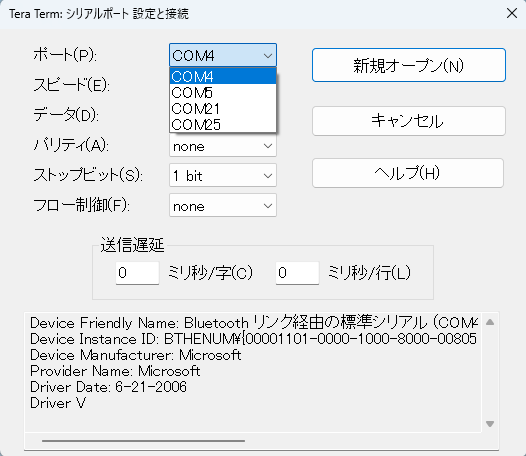
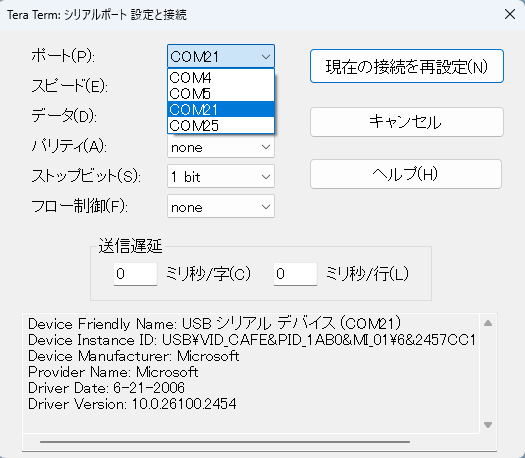
updated article

diff --git a/articles/2025-07-23-labo-logicanalyzer.md b/articles/2025-07-23-labo-logicanalyzer.md
@@ -1,5 +1,5 @@
 ---
-title: "Pico ボードは実験室! pico-jxgLABO でロジックアナライザを動かす"
+title: "Pico ボードは実験室! pico-jxgLABO を導入してロジックアナライザ機能を試してみる"
 emoji: "🐙"
 type: "tech" # tech: 技術記事 / idea: アイデア
 topics: ["組み込み", "raspberrypi", "pico", "raspberrypipico", "ロジックアナライザ"]
@@ -44,15 +44,13 @@ pico-jxgLABO を使うのに必要な機材は以下の通りです。
 
 ### 環境設定と動作確認
 
-Pico ボードを接続すると、ホスト PC にはマスストレージデバイスとして認識されます。ドライブ名は UF2 をコピーしたときと同じになると思います。
-
-シリアル通信をするため Tera Term を起動します。`[設定 (S)]-[シリアルポート (E)...]` を選択し、接続する Pico ボードのシリアルポートを選択します。
+シリアル通信をするため Tera Term を起動します。`[設定 (S)]`-`[シリアルポート (E)...]` を選択し、接続する Pico ボードのシリアルポートを選択します。
 
 ![teraterm-setting.png](/images/2025-07-23-labo-logicanalyzer/teraterm-setting.png)
 
-pico-jxgLABO は 2 つのシリアルポートを提供します。一つはターミナル用、もう一つはプロットアプリ用です。追加された最初のシリアルポート (上の例だと `COM21`) がターミナル用になります。選択して `[新規オープン (N)]` をクリックします。
+pico-jxgLABO は 2 つのシリアルポートを提供します。一つはターミナル用、もう一つはプロットアプリ用です。提供する最初のシリアルポート (上の例だと `COM21`) がターミナル用になります。これを選択して `[新規オープン (N)]` をクリックします。
 
-ターミナル上で `[Return]` を押すと、以下のようなプロンプトが表示されます。
+ターミナル上で `[Return]` キーを押すと、以下のようなプロンプトが表示されます。
 
 ```text
 L:/>
@@ -74,28 +72,39 @@ adc1            controls ADC (Analog-to-Digital Converter)
                         :
 ```
 
-PC でおなじみのファイル操作コマンドが利用可能です。
+オプション `--help` をつけると、各コマンドの詳細な使い方が表示されます。
 
 ```text
-L:/>ls
--a--- 2000-01-01 00:00:00     77 README.txt
-L:/>cat README.txt
-Welcome to pico-jxgLABO!
-Type 'help' in the shell to see available commands.
-L:/>
+L:/>cp --help
+Usage: cp [OPTION]... SOURCE... DEST
+Options:
+ -h --help      prints this help
+ -r --recursive copies directories recursively
+ -v --verbose   prints what is being done
+ -f --force     overwrites existing files without prompting
 ```
 
-ここで見られるファイル情報は、ホスト PC のマスストレージとして認識されているドライブと同じです。Pico ボード上で作成したファイルは、ホスト PC から参照できますし、ホスト PC から Pico ボード上にファイルをコピーすることもできます。
+なじみのあるファイル操作コマンド (`ls`, `cp`, `mv`, `rm`, `mkdir`, `cat` など) が利用可能です。また、リダイレクトに対応しているので、コマンドの出力をファイルに保存することができます。
 
-### ロジックアナライザの使い方
+`L:` ドライブは Pico ボードのフラッシュメモリを FAT ファイルシステムとしてマウントしたもので、ホスト PC からは USB マスストレージとして認識されます。ホスト PC 側で割り当てられるドライブレターは環境によって異なりますが、例えば `D:` ドライブとして認識されることが多いです。Pico ボード上で作成したファイルは、ホスト PC から参照できますし、ホスト PC から Pico ボード上にファイルをコピーすることもできます。
+
+### ロジックアナライザ機能を試す
+
+pico-jxgLABO のロジックアナライザ機能を試してみましょう。今回はデモンストレーションとして I2C インターフェースの信号をキャプチャします。
+
+`la` コマンドを使ってロジックアナライザを起動します。オプション `-p` でキャプチャするピンを指定します。ここでは Pico ボードの GPIO2 (I2C SDA) と GPIO3 (I2C SCL) を測定します。
 
 ```text
 L:/>la -p 2,3 enable
 enabled pio:2 12.5MHz (samplers:1) target:internal pins:2,3 events:1/88674 (heap-ratio:0.7)
 ```
 
+これでロジックアナライザが有効になりました。バックグランドで信号のキャプチャが行われています。信号の変化があるときだけキャプチャ処理が行われるので、急いで操作をする必要はありません。
+
+次に、`i2c` コマンドを使って I2C プロトコルの信号を出力します。`scan` サブコマンドは、アドレス 0 から 127 に対して read リクエストを送信し、応答があったアドレスを表示します。
+
 ```text
-L:/>i2c1 -p 2,3 scan
+L:/>i2c 1 -p 2,3 scan
 Bus Scan on I2C1
    0  1  2  3  4  5  6  7  8  9  A  B  C  D  E  F
 00 -- -- -- -- -- -- -- -- -- -- -- -- -- -- -- --
@@ -108,10 +117,14 @@ Bus Scan on I2C1
 70 -- -- -- -- -- -- -- -- -- -- -- -- -- -- -- --
 ```
 
+`la` コマンドを実行して、ロジックアナライザの状態を確認します。
+
 ```text
 L:/>la
 enabled pio:2 12.5MHz (samplers:1) target:internal pins:2,3 events:3461/88674 (heap-ratio:0.7)
 ```
+
+イベントがキャプチャされていることがわかります。`la print` コマンドを使って、キャプチャした信号を表示します。
 
 ```text
 L:/>la print
@@ -149,7 +162,7 @@ L:/>la print
 ```
 
 
-1 行あたりの時間間隔はデフォルトで 1000usec (1msec) ですが、上の例だと 579.52 と 585.84 の間隔が 6.32usec であることから、それよりも短い時間間隔を指定しないとタイムスケールが合わないことがわかります。そこで、オプション `--reso` を使って、1 行あたりの時間間隔を 4usec に設定して波形表示をします。
+表示分解能 (1 行あたりに表示する時間間隔) は、デフォルトで 1000usec (1msec) です。上の例だとエッジの間隔が 5usec 程度ですから、それよりも短くしないと正しい表示ができません。そこで、オプション `--reso` を使って、表示分解能を 4usec に設定して波形表示をします。
 
 ```text
 L:/>la print --reso:4
@@ -209,4 +222,38 @@ L:/>la print --reso:4
          :
 ```
 
+画面キャプチャをして、横向きに回転させたイメージを以下に示します。
+
 ![la-i2c.png](/images/2025-07-23-labo-logicanalyzer/la-i2c.png)
+
+まだプロトコルアナライザが実装されていないので、ビットパターンを手動で解析する必要があります。でも、I2C の解説記事などを片手に信号を眺めてみれば ... スタートコンディション・アドレス・Read/Write・ストップコンディションのパターンが見えてきませんか? ブラックボックスだった信号プロトコルが、波形を観測することですべてが明白になって、なんだか嬉しくなります。
+
+`la print` は、デフォルトでは最初の 80 イベントを表示します。`--part:all` オプションを使うと、すべてのイベントを表示できます。
+
+```text
+L:/>la print --part:all
+ Time [usec] P2  P3  
+             │   │  
+             :   :  
+        0.00 └─┐ │  
+        1.20   │ └─┐
+             :
+             :
+```
+
+`Ctrl-C` キーを押すと、表示を中断できます。
+
+リダイレクトを使うと、表示内容をファイルに保存できます。例えば、`i2c.log` というファイルに保存するには以下のようにします。
+
+```text
+L:/>la print --part:all > i2c.log
+```
+
+ホスト PC のテキストエディタでこのファイルを開けば、詳細な情報をじっくりと確認できます。
+
+キャプチャをやり直すには `la enable` コマンドを再度実行します。オプションを省略すると、前回の設定が引き継がれます。
+
+```text
+L:/>la enable
+enabled pio:2 12.5MHz (samplers:1) target:internal pins:2,3 events:1/88674 (heap-ratio:0.7)
+```
